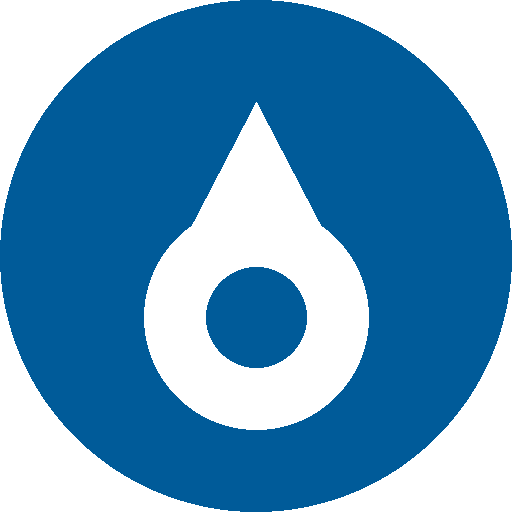
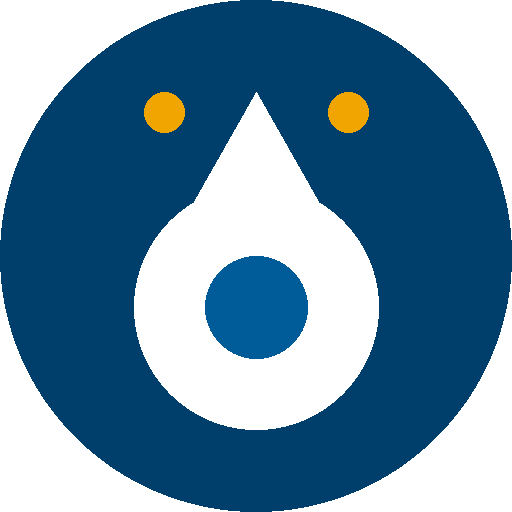
Add files via upload

diff --git a/index.html b/index.html
@@ -4,6 +4,10 @@
 <meta charset="UTF-8">
 <meta name="viewport" content="width=device-width, initial-scale=1.0">
 <title>Sistema de Gestión Interna — UTE Valle de Güímar</title>
+<link rel="icon" type="image/x-icon" href="favicon.ico">
+<link rel="icon" type="image/png" sizes="32x32" href="icon-32.png">
+<link rel="icon" type="image/png" sizes="16x16" href="icon-16.png">
+<link rel="apple-touch-icon" sizes="192x192" href="icon-192.png">
 <link rel="manifest" href="manifest.json">
 <meta name="theme-color" content="#005b99">
 <meta name="mobile-web-app-capable" content="yes">
@@ -320,6 +324,60 @@ body::before {
 }
 .logout-btn:hover { background: rgba(255,255,255,.22); }
 
+
+/* ── DIAGNÓSTICO ── */
+.diag-btn {
+  background: rgba(255,255,255,.12); border: 1px solid rgba(255,255,255,.22);
+  border-radius: 8px; color: white; cursor: pointer;
+  padding: 5px 10px; font-size: .78rem; font-family: 'Barlow', sans-serif;
+  display: flex; align-items: center; gap: 4px; font-weight: 600;
+  transition: background .15s; flex-shrink: 0;
+}
+.diag-btn:hover { background: rgba(255,255,255,.22); }
+.diag-dot { width: 8px; height: 8px; border-radius: 50%; background: #94a3b8; flex-shrink: 0; transition: background .3s; }
+.diag-dot.ok    { background: #22c55e; box-shadow: 0 0 6px #22c55e88; }
+.diag-dot.warn  { background: #f59e0b; box-shadow: 0 0 6px #f59e0b88; }
+.diag-dot.error { background: #ef4444; box-shadow: 0 0 6px #ef444488; }
+.diag-dot.checking { background: #94a3b8; animation: diag-pulse 1s infinite; }
+@keyframes diag-pulse { 0%,100%{opacity:1} 50%{opacity:.4} }
+
+#diag-panel {
+  display: none; position: fixed; top: 64px; right: 16px; z-index: 9000;
+  width: min(420px, calc(100vw - 32px));
+  background: #0f172a; border: 1px solid #1e293b;
+  border-radius: 14px; box-shadow: 0 24px 60px rgba(0,0,0,.6);
+  font-family: 'Barlow', sans-serif; overflow: hidden;
+}
+#diag-panel.open { display: block; }
+.diag-header {
+  background: linear-gradient(135deg,#003e6b,#005b99);
+  padding: .75rem 1rem; display: flex; align-items: center; gap: .6rem;
+}
+.diag-header h3 { font-family: 'Barlow Condensed',sans-serif; font-size: 1rem; font-weight: 700; color: white; flex: 1; }
+.diag-close { background: rgba(255,255,255,.15); border: none; border-radius: 6px; color: white; cursor: pointer; padding: 3px 8px; font-size: .8rem; }
+.diag-body { padding: .9rem 1rem; display: flex; flex-direction: column; gap: .55rem; max-height: 70vh; overflow-y: auto; }
+.diag-item {
+  display: flex; align-items: flex-start; gap: .7rem;
+  background: #1e293b; border: 1px solid #334155;
+  border-radius: 9px; padding: .65rem .85rem;
+}
+.diag-item.ok    { border-color: #166534; background: #052e16; }
+.diag-item.warn  { border-color: #92400e; background: #1c1007; }
+.diag-item.error { border-color: #7f1d1d; background: #1c0a0a; }
+.diag-item-icon { width: 28px; height: 28px; border-radius: 7px; display: flex; align-items: center; justify-content: center; font-size: 14px; flex-shrink: 0; }
+.diag-item-icon.ok    { background: #166534; }
+.diag-item-icon.warn  { background: #92400e; }
+.diag-item-icon.error { background: #7f1d1d; }
+.diag-item-icon.checking { background: #1e3a5f; }
+.diag-item-body { flex: 1; min-width: 0; }
+.diag-item-title { font-size: .82rem; font-weight: 600; color: #e2e8f0; margin-bottom: 2px; }
+.diag-item-desc  { font-size: .72rem; color: #94a3b8; line-height: 1.45; }
+.diag-item-fix   { font-size: .72rem; color: #f59e0b; margin-top: 4px; line-height: 1.4; }
+.diag-footer { padding: .6rem 1rem; border-top: 1px solid #1e293b; display: flex; align-items: center; justify-content: space-between; }
+.diag-refresh { background: none; border: 1px solid #334155; border-radius: 7px; color: #94a3b8; cursor: pointer; font-size: .75rem; padding: 4px 12px; font-family: 'Barlow',sans-serif; }
+.diag-refresh:hover { background: #1e293b; color: white; }
+.diag-stamp { font-size: .68rem; color: #475569; font-family: 'JetBrains Mono',monospace; }
+
 </style>
 <script type="module">
   import { initializeApp } from "https://www.gstatic.com/firebasejs/10.12.0/firebase-app.js";
@@ -367,6 +425,22 @@ body::before {
 </style>
 </head>
 <body>
+
+<!-- ═══ PANEL DIAGNÓSTICO ═══ -->
+<div id="diag-panel">
+  <div class="diag-header">
+    <svg viewBox="0 0 16 16" fill="none" style="width:16px;height:16px;stroke:white;stroke-width:1.4"><circle cx="8" cy="8" r="6"/><path d="M8 5v3l2 2" stroke-linecap="round"/></svg>
+    <h3>Diagnóstico del portal</h3>
+    <button class="diag-close" onclick="toggleDiag()">✕</button>
+  </div>
+  <div class="diag-body" id="diag-body">
+    <div style="text-align:center;padding:1.5rem;color:#94a3b8;font-size:.82rem;">Comprobando...</div>
+  </div>
+  <div class="diag-footer">
+    <button class="diag-refresh" onclick="runDiag()">↺ Volver a comprobar</button>
+    <div class="diag-stamp" id="diag-stamp">—</div>
+  </div>
+</div>
 
 <!-- ═══════════════════ LOGIN ═══════════════════ -->
 <div id="login-screen">
@@ -456,6 +530,10 @@ body::before {
       <div id="user-email-bar" style="font-size:.68rem;color:rgba(255,255,255,.45);font-family:'JetBrains Mono',monospace;margin-top:2px;"></div>
       <div style="display:flex;gap:4px;margin-top:3px;">
     <button id="manage-users-btn" onclick="openUserManager()" style="display:none;font-size:.68rem;padding:3px 9px;background:rgba(255,255,255,.1);border:1px solid rgba(255,255,255,.2);border-radius:6px;color:rgba(255,255,255,.7);cursor:pointer;font-family:'Barlow',sans-serif;">Usuarios</button>
+    <button class="diag-btn" onclick="toggleDiag()" id="diag-btn" title="Diagnóstico del portal">
+      <div class="diag-dot checking" id="diag-global-dot"></div>
+      <span>Estado</span>
+    </button>
     <button onclick="toggleFullscreen()" id="fs-btn" class="fs-btn" title="Pantalla completa">
       <svg viewBox="0 0 16 16" fill="none"><path d="M3 6V3h3M10 3h3v3M13 10v3h-3M6 13H3v-3" stroke-width="1.4" stroke-linecap="round" stroke-linejoin="round"/></svg>
     </button>
@@ -1946,6 +2024,195 @@ document.addEventListener('fullscreenchange', () => {
     ? '<path d="M6 3v3H3M13 6h-3V3M10 13v-3h3M3 10h3v3" stroke-width="1.4" stroke-linecap="round" stroke-linejoin="round"/>'
     : '<path d="M3 6V3h3M10 3h3v3M13 10v3h-3M6 13H3v-3" stroke-width="1.4" stroke-linecap="round" stroke-linejoin="round"/>';
 });
+
+
+// ══════════════════════════════════════════════════════════════
+// DIAGNÓSTICO DEL PORTAL
+// ══════════════════════════════════════════════════════════════
+let _diagOpen = false;
+
+function toggleDiag() {
+  _diagOpen = !_diagOpen;
+  document.getElementById('diag-panel').classList.toggle('open', _diagOpen);
+  if(_diagOpen) runDiag();
+}
+
+// Close panel when clicking outside
+document.addEventListener('click', e => {
+  const panel = document.getElementById('diag-panel');
+  const btn   = document.getElementById('diag-btn');
+  if(_diagOpen && !panel.contains(e.target) && !btn.contains(e.target)) {
+    _diagOpen = false;
+    panel.classList.remove('open');
+  }
+});
+
+async function runDiag() {
+  const body = document.getElementById('diag-body');
+  body.innerHTML = '<div style="text-align:center;padding:1.5rem;color:#94a3b8;font-size:.82rem;">Comprobando...</div>';
+
+  const checks = [];
+  const results = [];
+
+  // ── 1. Conectividad general ────────────────────────────────────────────────
+  checks.push((async () => {
+    const online = navigator.onLine;
+    return {
+      id: 'net',
+      title: 'Conectividad de red',
+      ok: online ? 'ok' : 'error',
+      icon: online ? '🌐' : '📵',
+      desc: online ? 'El dispositivo tiene acceso a internet.' : 'Sin conexión a internet.',
+      fix: online ? null : 'Verifica tu WiFi o datos móviles e inténtalo de nuevo.'
+    };
+  })());
+
+  // ── 2. Firebase ────────────────────────────────────────────────────────────
+  checks.push((async () => {
+    const fbReady = !!window._fb;
+    let fbWrite = false;
+    if(fbReady) {
+      try {
+        await window._fb.set(window._fb.ref(window._fb.db, '_diag_ping'), Date.now());
+        fbWrite = true;
+      } catch(e) { fbWrite = false; }
+    }
+    const st = fbReady && fbWrite ? 'ok' : fbReady ? 'warn' : 'error';
+    return {
+      id: 'fb',
+      title: 'Firebase Realtime Database',
+      ok: st,
+      icon: st === 'ok' ? '🔥' : '⚠️',
+      desc: fbReady && fbWrite ? 'Conectado y con escritura correcta. Sincronización activa.'
+           : fbReady ? 'SDK cargado pero la escritura falló. Las reglas pueden estar mal configuradas.'
+           : 'Firebase no ha cargado. Puede ser un problema de red o CORS.',
+      fix: st !== 'ok' ? (fbReady
+        ? 'Comprueba las reglas en Firebase Console → Realtime Database → Reglas. Deben ser ".read": true, ".write": true'
+        : 'Comprueba la conexión a internet y recarga la página.')
+        : null
+    };
+  })());
+
+  // ── 3. Sesión de usuario ───────────────────────────────────────────────────
+  checks.push((async () => {
+    const session = getSession();
+    const ok = session && session.username;
+    return {
+      id: 'session',
+      title: 'Sesión de usuario',
+      ok: ok ? 'ok' : 'warn',
+      icon: ok ? '👤' : '🔒',
+      desc: ok
+        ? `Sesión activa: ${session.username} (${session.role}). Iniciada el ${new Date(session.loginAt).toLocaleDateString('es-ES')}.`
+        : 'No hay sesión activa en este dispositivo.',
+      fix: ok ? null : 'Inicia sesión con tu usuario y contraseña.'
+    };
+  })());
+
+  // ── 4. Service Worker ──────────────────────────────────────────────────────
+  checks.push((async () => {
+    if(!('serviceWorker' in navigator)) {
+      return { id:'sw', title:'Service Worker (PWA)', ok:'warn', icon:'📦',
+        desc:'Este navegador no soporta Service Workers. La app no puede instalarse.',
+        fix:'Usa Chrome o Edge en su versión más reciente.' };
+    }
+    try {
+      const regs = await navigator.serviceWorker.getRegistrations();
+      const active = regs.some(r => r.active);
+      return { id:'sw', title:'Service Worker (PWA)', ok: active ? 'ok' : 'warn', icon: active ? '📦' : '⚙️',
+        desc: active ? `Service Worker activo. La app puede funcionar sin conexión y es instalable.`
+                     : 'Service Worker registrado pero no activo todavía. Recarga la página.',
+        fix: active ? null : 'Recarga la página con Ctrl+Shift+R para activar el Service Worker.' };
+    } catch(e) {
+      return { id:'sw', title:'Service Worker (PWA)', ok:'warn', icon:'⚙️',
+        desc:'No se pudo comprobar el estado del Service Worker.',
+        fix: 'Recarga la página.' };
+    }
+  })());
+
+  // ── 5. Caché offline ───────────────────────────────────────────────────────
+  checks.push((async () => {
+    if(!('caches' in window)) {
+      return { id:'cache', title:'Caché offline', ok:'warn', icon:'💾',
+        desc:'El navegador no soporta la API de caché.', fix: null };
+    }
+    try {
+      const keys = await caches.keys();
+      const hasCache = keys.length > 0;
+      const cacheKey = keys.find(k => k.startsWith('ute-sgi'));
+      return { id:'cache', title:'Caché offline', ok: hasCache ? 'ok' : 'warn', icon:'💾',
+        desc: hasCache
+          ? `Caché activa (${keys.length} versión${keys.length>1?'es':''}). El portal carga aunque no haya internet.`
+          : 'Sin caché todavía. Navega por las apps para que se cacheen.',
+        fix: hasCache ? null : 'Abre cada módulo del portal al menos una vez con conexión.' };
+    } catch(e) {
+      return { id:'cache', title:'Caché offline', ok:'warn', icon:'💾',
+        desc:'No se pudo comprobar la caché.', fix: null };
+    }
+  })());
+
+  // ── 6. Módulos críticos ────────────────────────────────────────────────────
+  checks.push((async () => {
+    const missing = [];
+    if(typeof React === 'undefined')    missing.push('React');
+    if(typeof ReactDOM === 'undefined') missing.push('ReactDOM');
+    if(typeof Babel === 'undefined')    missing.push('Babel');
+    if(typeof XLSX === 'undefined')     missing.push('XLSX (SheetJS)');
+    const ok = missing.length === 0;
+    return { id:'libs', title:'Librerías externas', ok: ok ? 'ok' : 'warn', icon: ok ? '📚' : '⚠️',
+      desc: ok ? 'Todas las librerías cargadas correctamente (React, Babel, XLSX).'
+               : `Faltan: ${missing.join(', ')}. Algunas apps pueden no funcionar.`,
+      fix: ok ? null : 'Verifica tu conexión a internet y recarga la página. Las librerías se cargan desde CDN externo.' };
+  })());
+
+  // ── Resolver todos y renderizar ────────────────────────────────────────────
+  const resolved = await Promise.all(checks);
+
+  const globalOk = resolved.every(r => r.ok === 'ok') ? 'ok'
+                 : resolved.some(r => r.ok === 'error') ? 'error' : 'warn';
+
+  // Update global dot
+  const dot = document.getElementById('diag-global-dot');
+  dot.className = 'diag-dot ' + globalOk;
+
+  // Render
+  const now = new Date();
+  document.getElementById('diag-stamp').textContent =
+    `Última comprobación: ${now.toLocaleTimeString('es-ES')}`;
+
+  body.innerHTML = resolved.map(r => `
+    <div class="diag-item ${r.ok}">
+      <div class="diag-item-icon ${r.ok}">${r.icon}</div>
+      <div class="diag-item-body">
+        <div class="diag-item-title">${r.title}</div>
+        <div class="diag-item-desc">${r.desc}</div>
+        ${r.fix ? `<div class="diag-item-fix">💡 ${r.fix}</div>` : ''}
+      </div>
+      <div style="font-size:1rem;flex-shrink:0;">${r.ok==='ok'?'✅':r.ok==='warn'?'⚠️':'❌'}</div>
+    </div>
+  `).join('');
+}
+
+// Run diagnostics automatically on load (just the dot indicator)
+window.addEventListener('firebase-ready', () => {
+  runDiag().catch(()=>{});
+});
+setTimeout(() => {
+  if(!_diagOpen) {
+    // Just update the dot without opening the panel
+    Promise.all([
+      navigator.onLine,
+      !!window._fb,
+      !!getSession()?.username,
+    ]).then(([online, fb]) => {
+      const dot = document.getElementById('diag-global-dot');
+      if(!dot) return;
+      if(!online) { dot.className = 'diag-dot error'; return; }
+      if(!fb)     { dot.className = 'diag-dot warn'; return; }
+      dot.className = 'diag-dot ok';
+    });
+  }
+}, 3000);
 
 // ── Reloj ──
 function updateClock(){